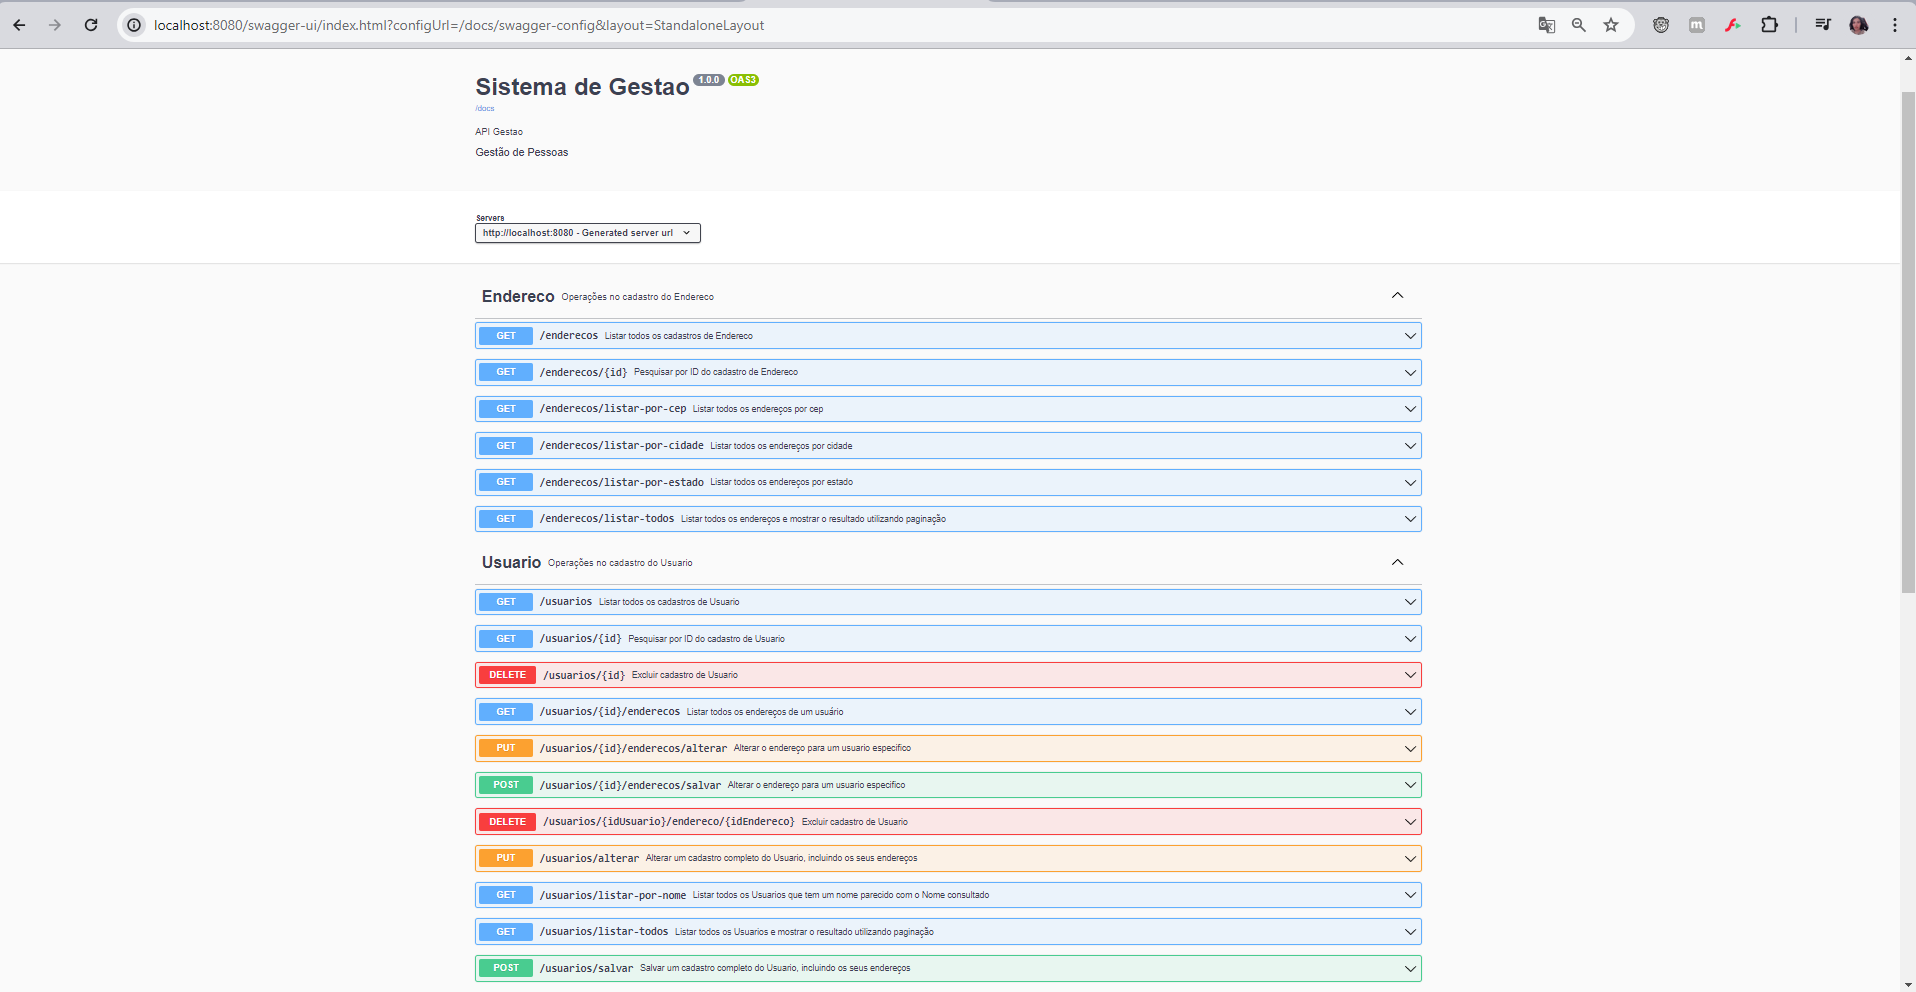
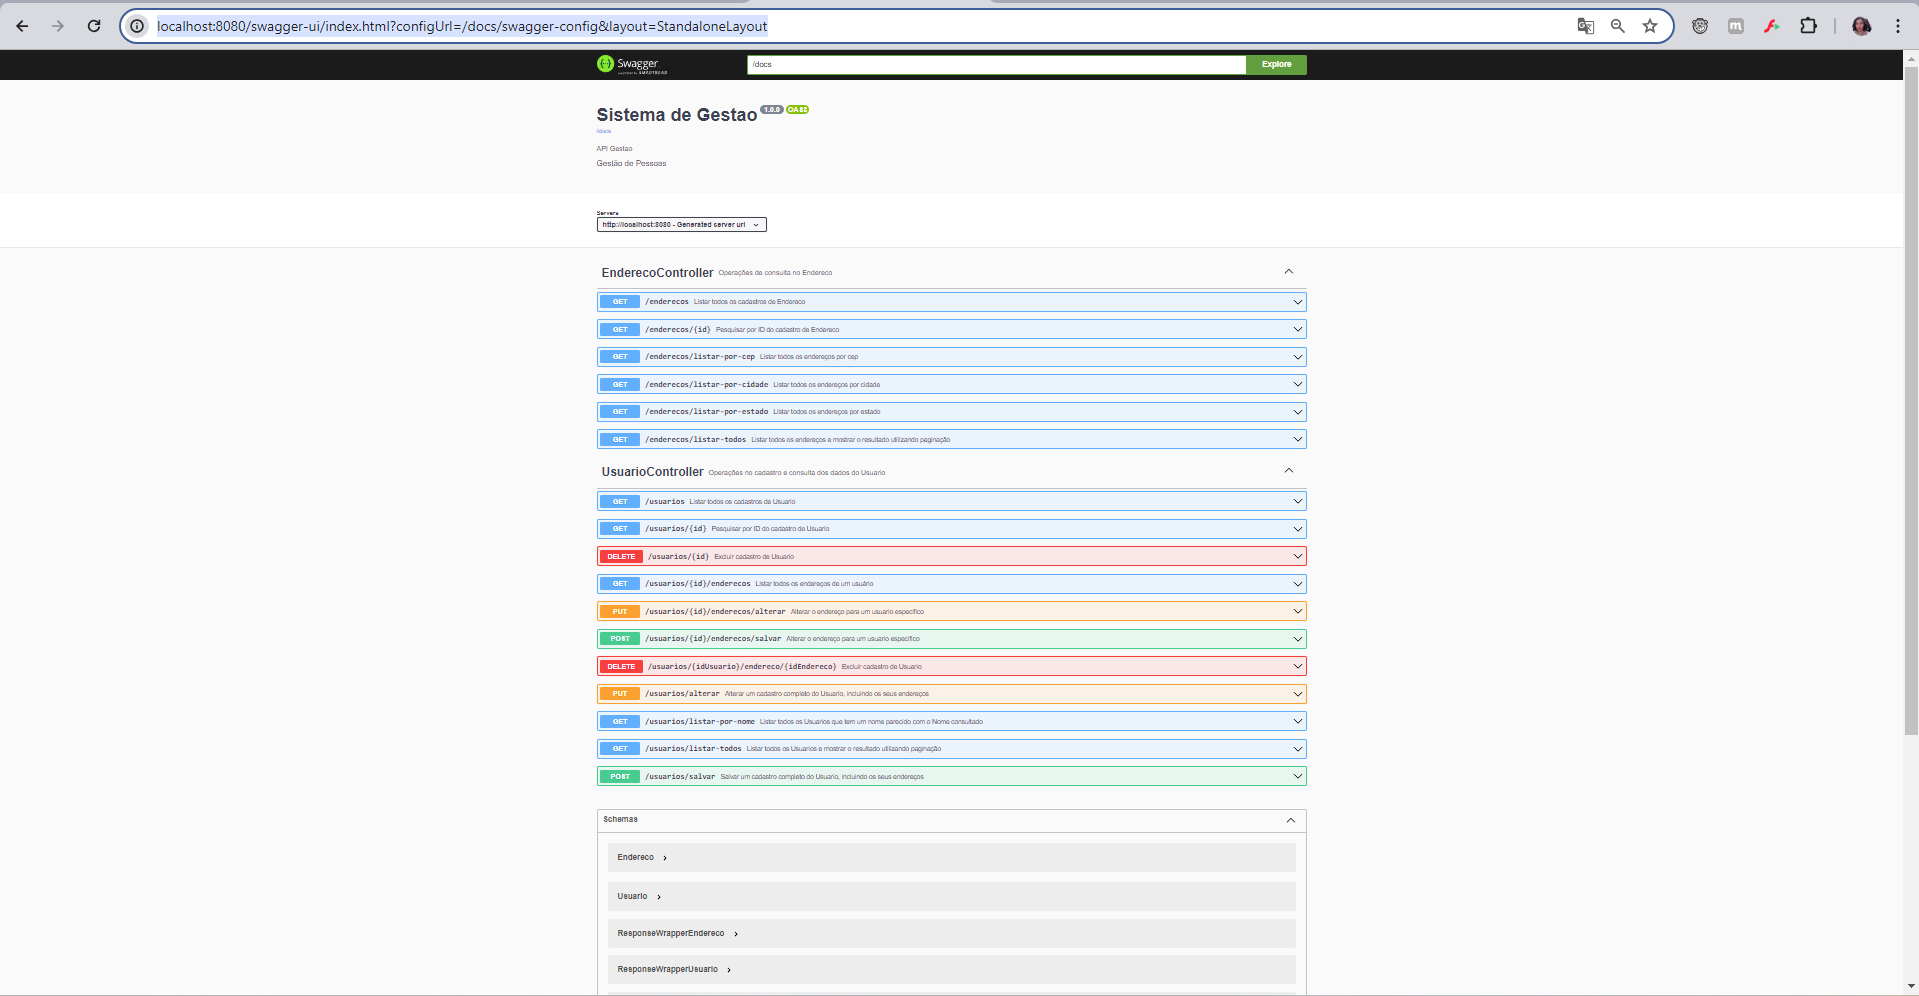
Melhorando a documentação

diff --git a/src/main/java/br/com/gestao/controllers/UsuarioController.java b/src/main/java/br/com/gestao/controllers/UsuarioController.java
@@ -26,7 +26,7 @@ import io.swagger.v3.oas.annotations.tags.Tag;
 @RestController
 @CrossOrigin
 @RequestMapping("/usuarios")
-@Tag(name = "Usuario", description = "Operações no cadastro do Usuario")
+@Tag(name = "UsuarioController", description = "Operações no cadastro e consulta dos dados do Usuario")
 public class UsuarioController {
 
 	private final UsuarioService usuarioService;

diff --git a/src/main/java/br/com/gestao/controllers/EnderecoController.java b/src/main/java/br/com/gestao/controllers/EnderecoController.java
@@ -21,7 +21,7 @@ import io.swagger.v3.oas.annotations.tags.Tag;
 @RestController
 @CrossOrigin
 @RequestMapping("/enderecos")
-@Tag(name = "Endereco", description = "Operações no cadastro do Endereco")
+@Tag(name = "EnderecoController", description = "Operações de consulta no Endereco")
 public class EnderecoController {
 
 	private final EnderecoService enderecoService;
